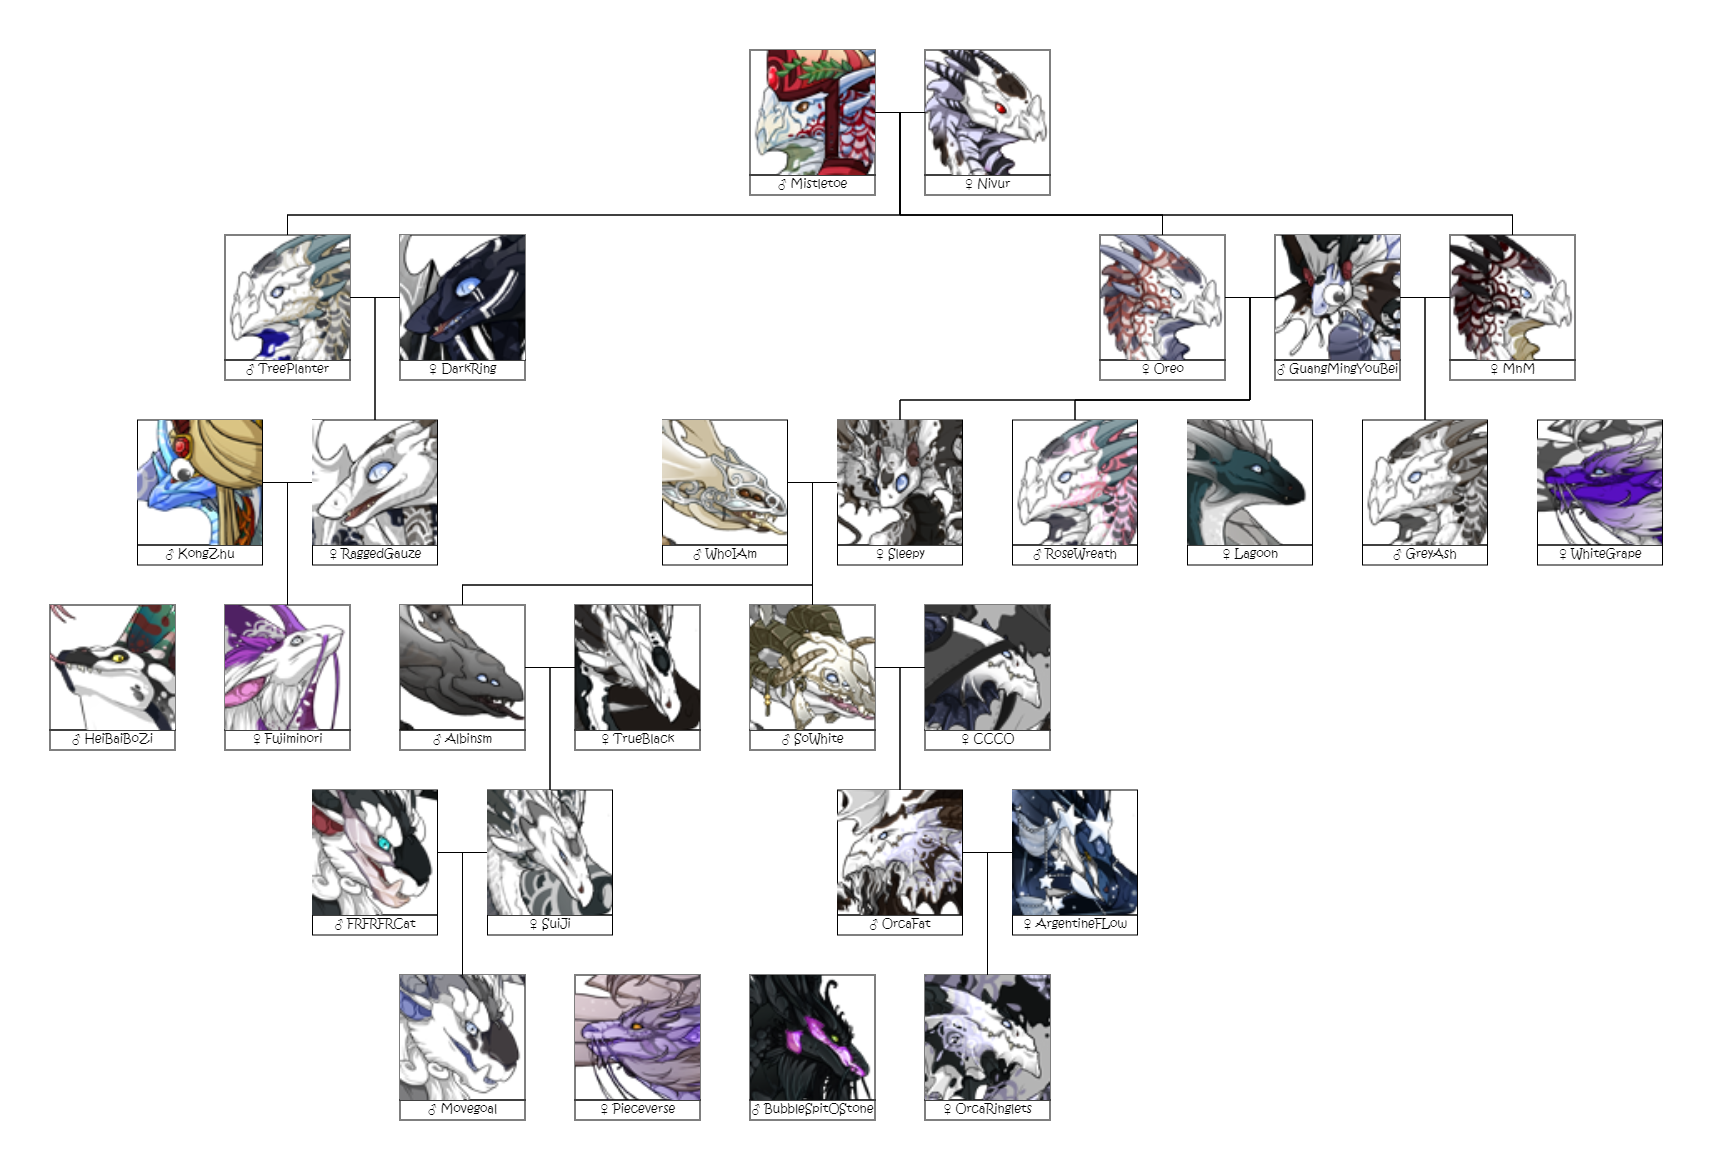
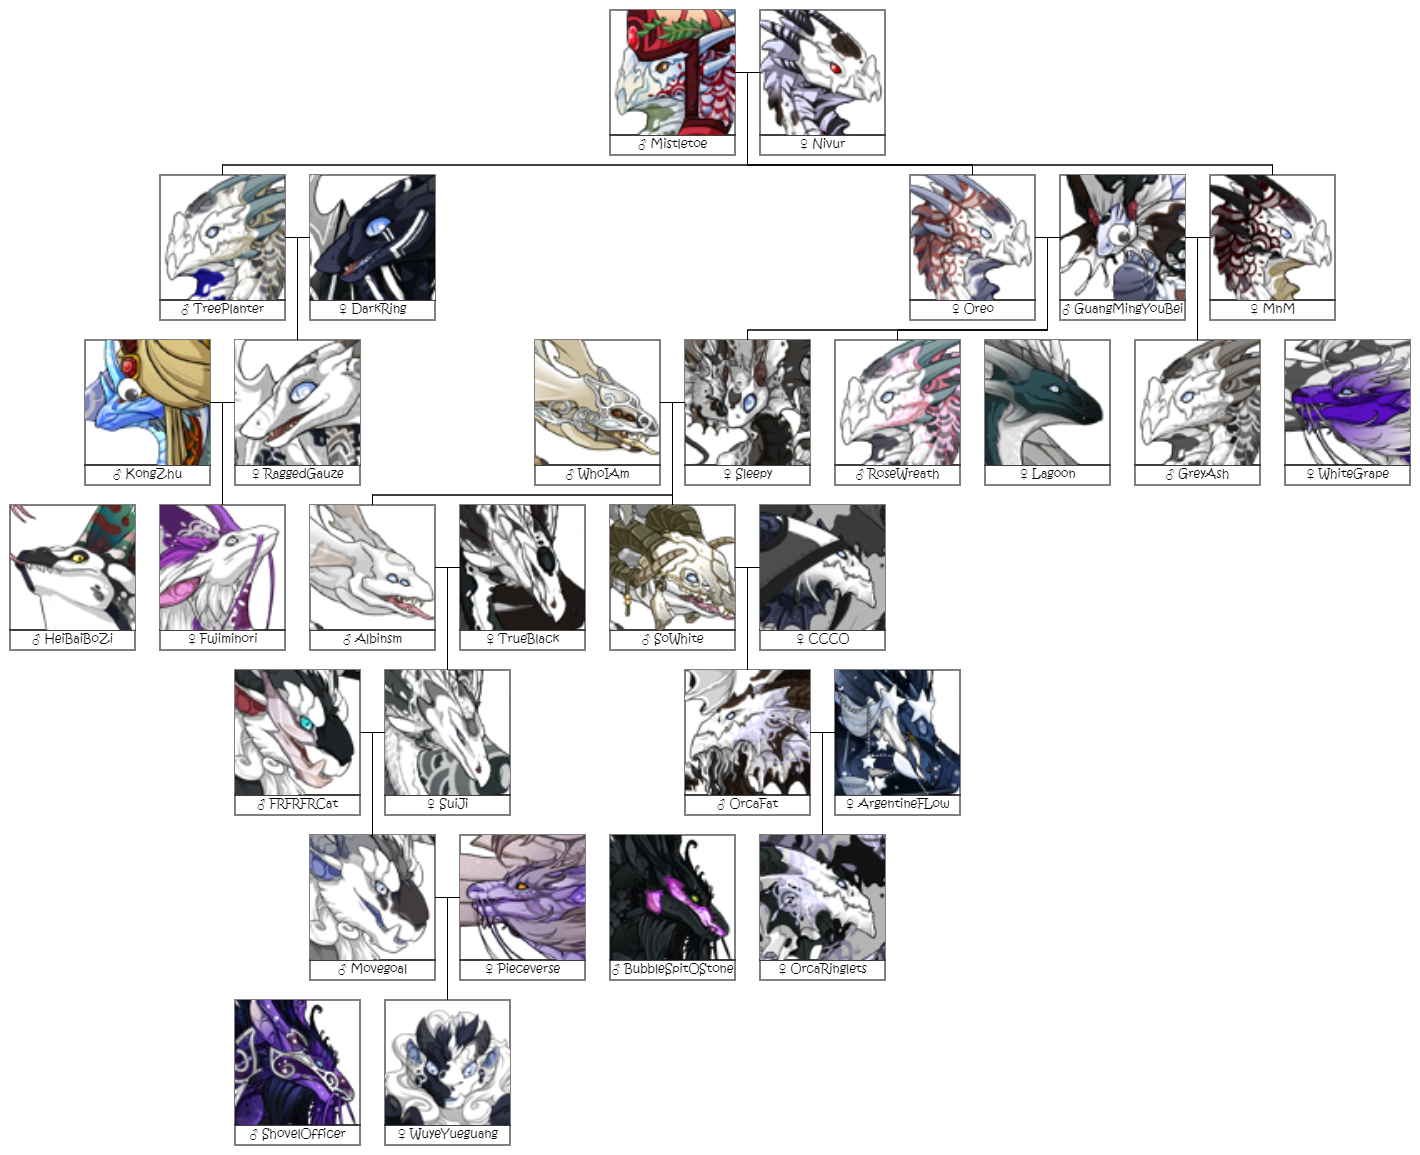
Update ft (#160)
* Add files via upload

* Update family-tree.html

diff --git a/family-tree.html b/family-tree.html
@@ -80,23 +80,23 @@
                 <p>End without ,</p>
                 <p>Example as below</p>
               </div>
-              <textarea rows="15" id="lists" class="form-control">["66097884", "Mistletoe", "M", [0, 3], "", ""],
-["64879516", "Nivur", "F", [0, 4], "", ""],
+              <textarea rows="15" id="lists" class="form-control">["66097884", "Mistletoe", "M", [0, 4], "", ""],
+["64879516", "Nivur", "F", [0, 5], "", ""],
 
 ["67700989", "TreePlanter", "M", [1, 1], "66097884", "64879516"],
 ["66780586", "DarkRing", "F", [1, 2], "", ""],
-["66993894", "Oreo", "F", [1, 4], "66097884", "64879516"],
-["66222638", "GuangMingYouBei", "M", [1, 5], "", ""],
-["69443377", "MnM", "F", [1, 6], "66097884", "64879516"],
+["66993894", "Oreo", "F", [1, 6], "66097884", "64879516"],
+["66222638", "GuangMingYouBei", "M", [1, 7], "", ""],
+["69443377", "MnM", "F", [1, 8], "66097884", "64879516"],
 
 ["19643291", "KongZhu", "M", [2, 0.5], "0", "0"],
 ["69398228", "RaggedGauze", "F", [2,1.5], "67700989", "66780586"],
-["66611170", "WhoIAm", "M", [2, 2.5], "", ""],
-["68519855", "Sleepy", "F", [2, 3.5], "66222638", "66993894"],
-["71845247", "RoseWreath", "M", [2, 4.5], "66222638", "66993894"],
-["69709433", "Lagoon", "F", [2, 5.5], "", ""],
-["71460363", "GreyAsh", "M", [2, 6.5], "66222638", "69443377"],
-["67266097", "WhiteGrape", "F", [2, 7.5], "", ""],
+["66611170", "WhoIAm", "M", [2, 3.5], "", ""],
+["68519855", "Sleepy", "F", [2, 4.5], "66222638", "66993894"],
+["71845247", "RoseWreath", "M", [2, 5.5], "66222638", "66993894"],
+["69709433", "Lagoon", "F", [2, 6.5], "", ""],
+["71460363", "GreyAsh", "M", [2, 7.5], "66222638", "69443377"],
+["67266097", "WhiteGrape", "F", [2, 8.5], "", ""],
 
 ["29402229", "HeiBaiBoZi", "M", [3, 0], "", ""],
 ["71357102", "Fujiminori", "F", [3, 1], "19643291", "69398228"],
@@ -106,7 +106,17 @@
 ["27227277", "CCCO", "F", [3, 5], "", ""],
 
 ["71942921", "FRFRFRCat", "M", [4, 1.5], "", ""],
-["72038206", "SuiJi", "F", [4, 2.5], "70287288", "69609633"]</textarea>
+["72038206", "SuiJi", "F", [4, 2.5], "70287288", "69609633"],
+["72308534", "OrcaFat", "M", [4, 4.5], "71044686", "27227277"],
+["71453785", "ArgentineFLow", "F", [4, 5.5], "", ""],
+
+["72725939", "Movegoal", "M", [5, 2], "71942921", "72038206"],
+["72734483", "Pieceverse","F", [5, 3], ", "],
+["73039962", "BubbleSpitOStone","M", [5, 4], ", "],
+["73309761", "OrcaRinglets", "F", [5, 5], "72308534", "71453785"],
+
+["73919041", "ShovelOfficer", "M", [6, 1.5], "", ""],
+["74112254", "WuyeYueguang", "F", [6, 2.5], "72725939", "72734483"]</textarea>
             </div>
 
             <div class="panel-body"><div class="panel-body">
